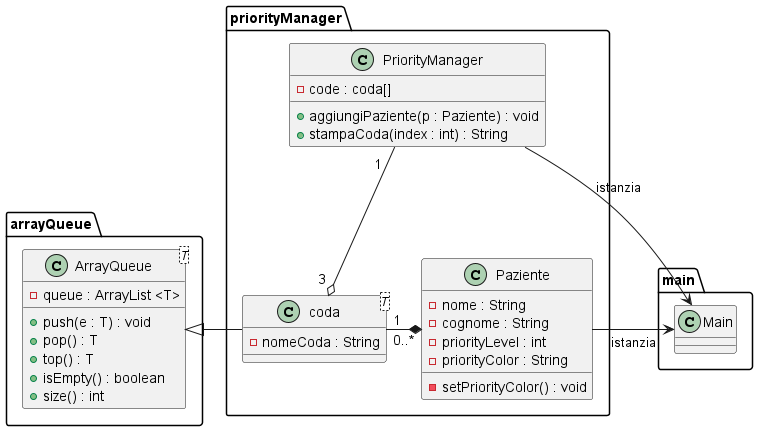
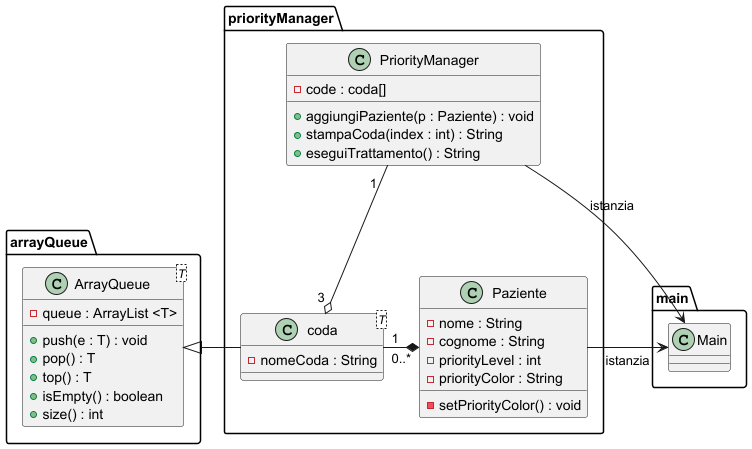
HospitalPriorityManager_v2.0.0

Changed region(s): [[0.0, 0.0, 1.0, 0.9954], [0.4588, 0.4826, 0.4894, 0.5731]]

diff --git a/HospitalPriorityManager/src/main/Main.java b/HospitalPriorityManager/src/main/Main.java
@@ -58,7 +58,7 @@ public class Main {
         System.out.print("Inserisci il cognome del paziente: ");
         cognomePaziente = sc.next();
 
-        gestore.aggiungiPaziente(new Paziente(nomePaziente, cognomePaziente, selettoreCoda-1));
+        gestore.aggiungiPaziente(new Paziente(nomePaziente, cognomePaziente, selettoreCoda));
     }
 
     public static void main(String[] args) {
@@ -68,7 +68,7 @@ public class Main {
         do {
             do {
                 System.out.println("GESTORE PRIORITA' OSPEDALIERE:");
-                System.out.println("Opzioni:\n  1. Stampa coda\n  2. Aggiungi paziente\n  3. chiudi");
+                System.out.println("Opzioni:\n  1. Stampa coda\n  2. Aggiungi paziente\n  3. Effettua trattamento\n  4. Chiudi");
                 System.out.print("Seleziona: ");
                 try {
                     errorChecker = false;
@@ -82,11 +82,12 @@ public class Main {
             switch (selettore) {
                 case 1 -> stampaCodaOspedaliera();
                 case 2 -> aggiugniPazienteCoda();
-                case 3 -> {
+                case 3 -> System.out.println(gestore.eseguiTrattamento());
+                case 4 -> {
                     System.out.println("Chiusura programma");
                     menu = false;
                 }
-                default -> System.out.println("L'input deve essere compreso tra 1 e 3");
+                default -> System.out.println("L'input deve essere compreso tra 1 e 4");
             }
         } while (menu);
     }

diff --git a/HospitalPriorityManager/src/priorityManager/PriorityManager.java b/HospitalPriorityManager/src/priorityManager/PriorityManager.java
@@ -33,4 +33,14 @@ public class PriorityManager {
             return "Indice di coda inesistente";
         }
     }
+
+    //ESEGUI TRATTAMENTO
+    public String eseguiTrattamento () {
+        for (int i = 2; i >= 0; i--) {
+            if (!code[i].isEmpty()) {
+                return "E' stato trattato nella coda livello " + code[i].getNomeCoda() + " il paziente: " + code[i].pop();
+            }
+        }
+        return "Nessun paziente presente";
+    }
 }
